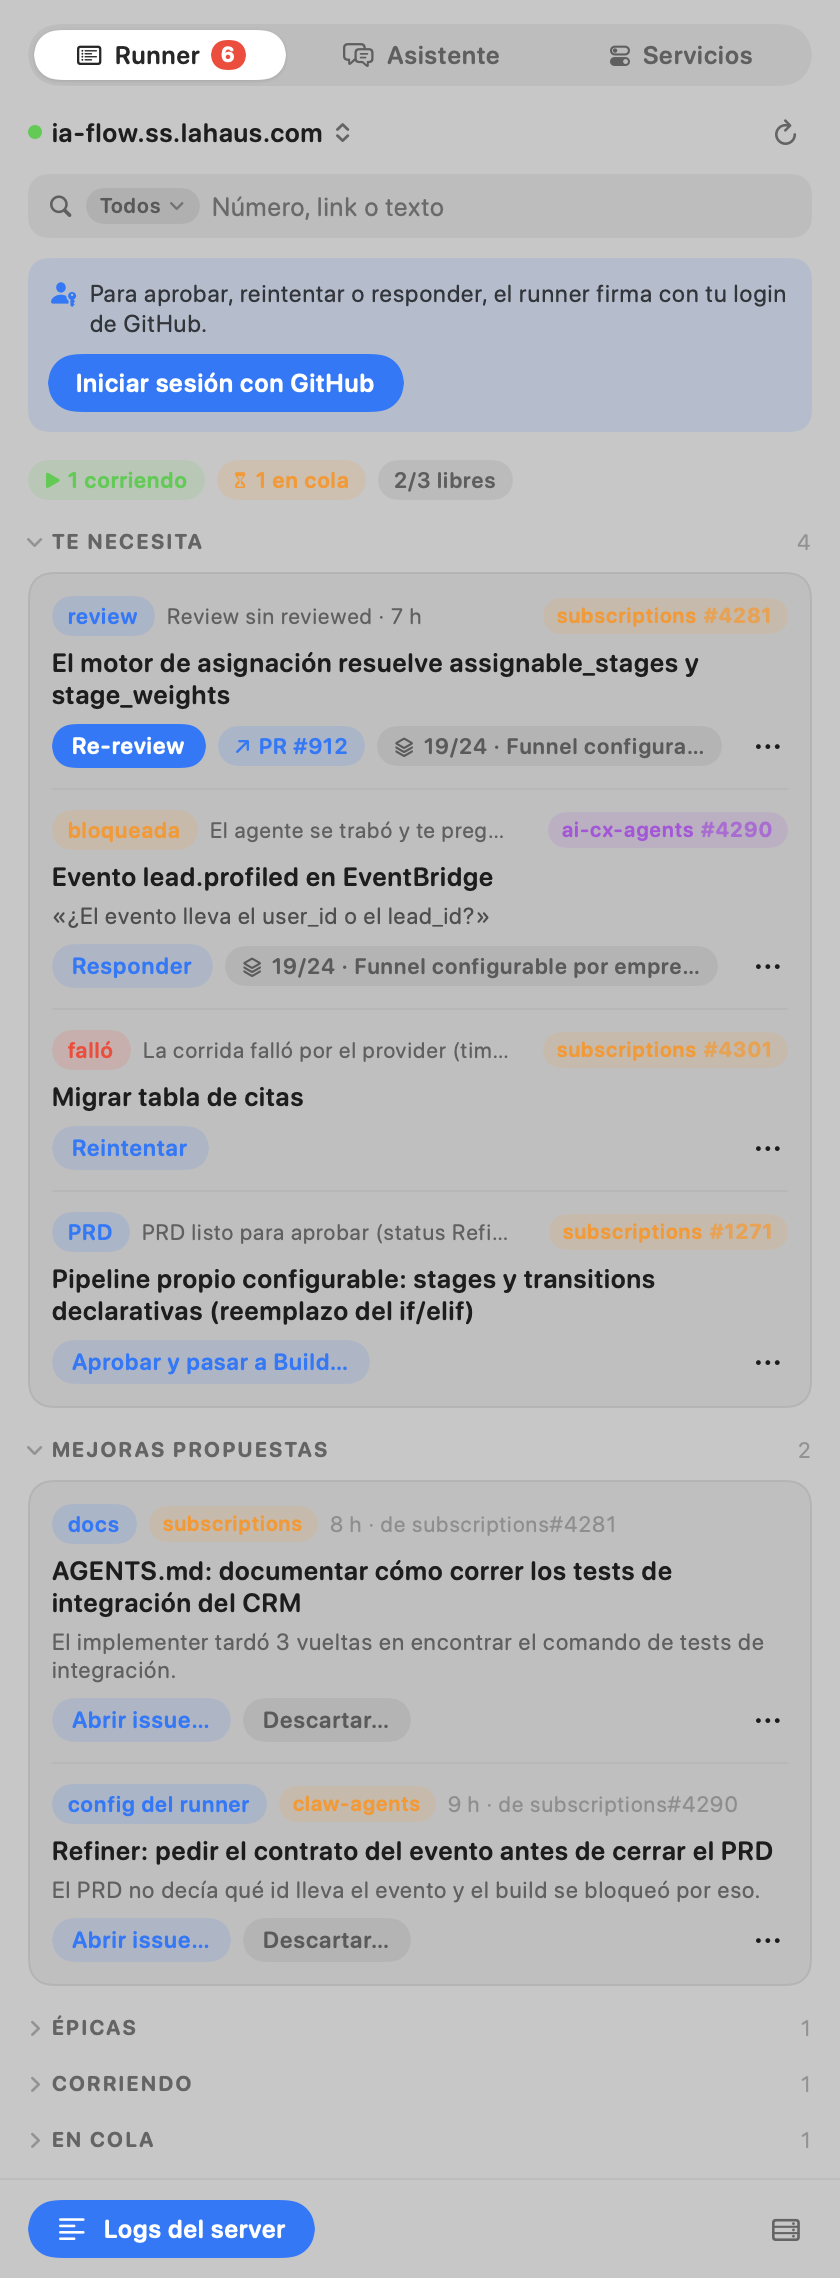
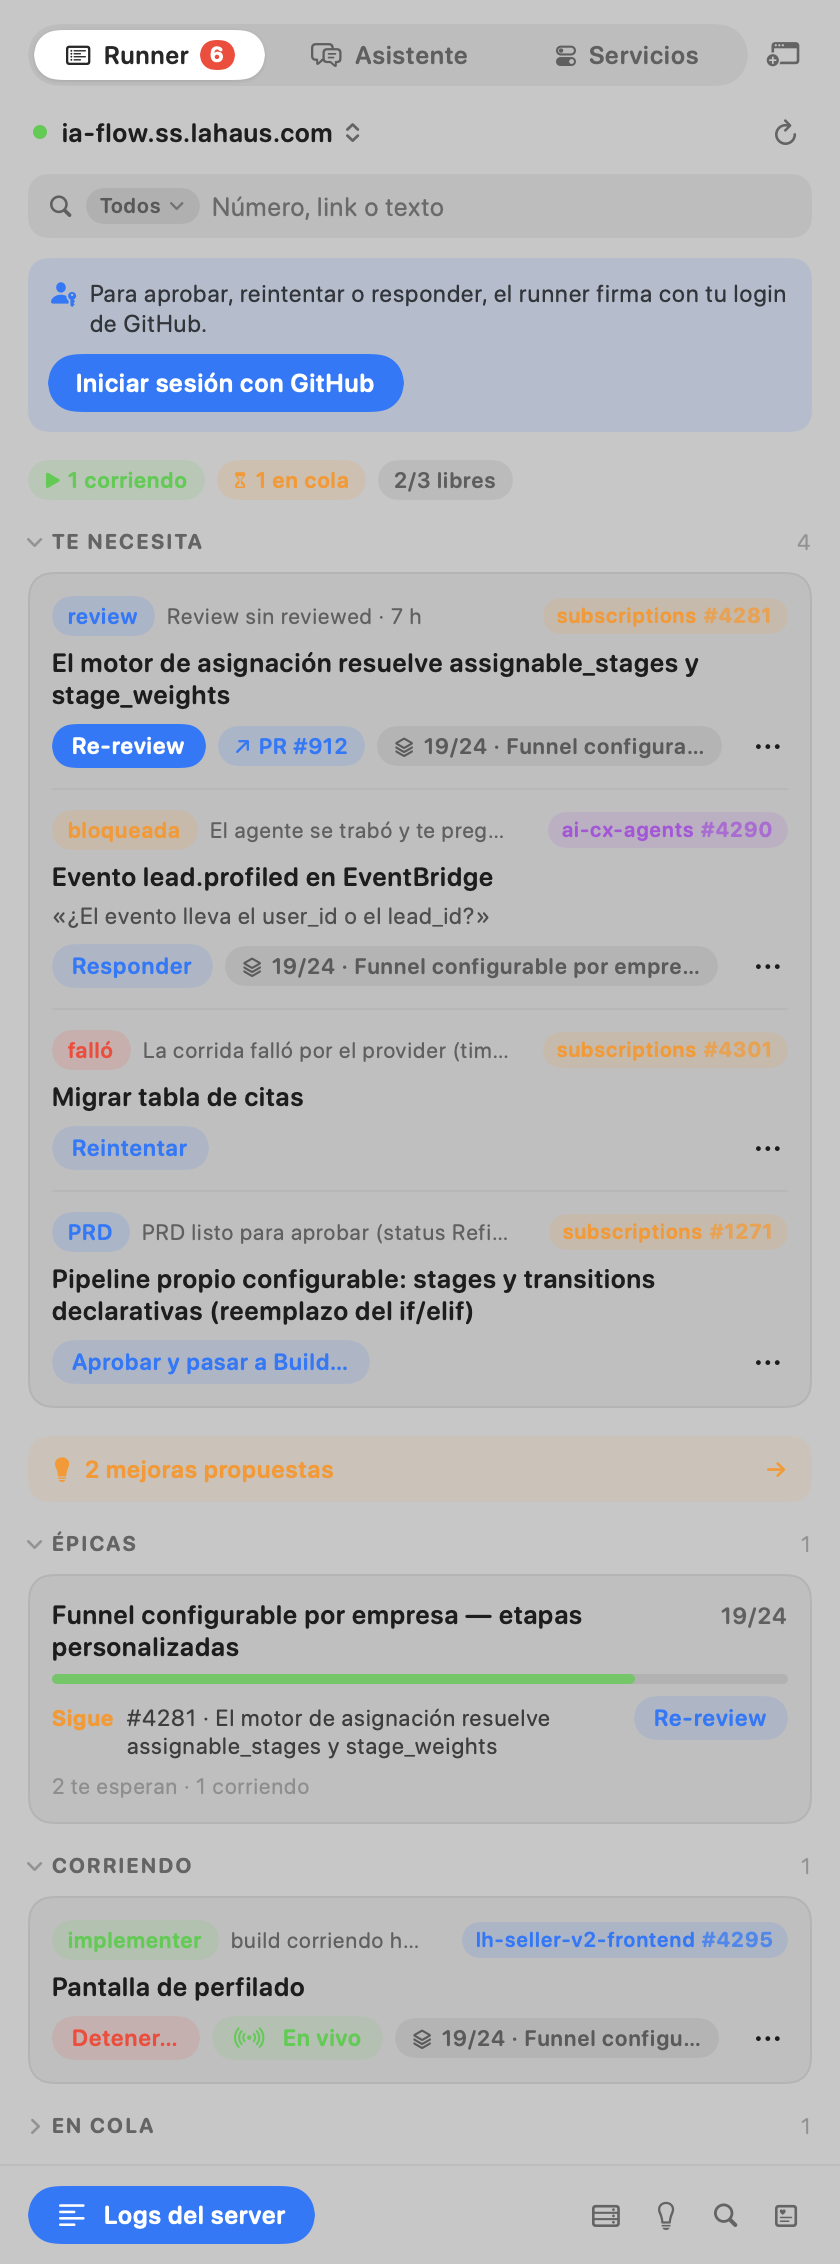
docs(menubar): la pantalla de mejoras propuestas y su «¿Por qué?»

diff --git a/apps/menubar/README.md b/apps/menubar/README.md
@@ -36,7 +36,7 @@ y de cada host, con sus lugares ocupados; «A tope» si no quedan lugares o memo
 **Pestaña «Runner»:** la bandeja de un runner (local o remoto) sobre la misma API que la web
 (`/api/inbox`, ya clasificada por el runner): lo que **te necesita** (merge, PRD, dudas, fallos) con su acción
 principal a un clic y las demás en ⋯, las **épicas** (avance de sus sub-issues y la próxima tarea que la mueve,
-con su acción), las **mejoras propuestas** por la retrospectiva (abrirlas como issue o descartarlas), lo que
+con su acción), cuántas **mejoras propuestas** esperan (llevan a su pantalla), lo que
 **corre** (con «Detener…») y la **cola**. Cada sección se colapsa con un clic en su título.
 **Buscador:** un tag al inicio elige el repo (o todos; filtra todo aunque no se escriba nada) y cada tarea lleva el tag de su repo, del mismo color. Acepta `1775`, `#1775`, `subscriptions#1775`, `la-haus/subscriptions#1775`, el link del issue o del
 PR, o texto del título (aproximado: sin tildes, palabras en cualquier orden, prefijos y typos); filtra todas las secciones (buscar una épica trae sus tareas) y busca también en el resto
@@ -50,6 +50,12 @@ texto busca en el título; con toda la organización, el texto busca por título
 número pide elegir repo (GitHub no busca por número en toda la org). `repo#n`, `owner/repo#n` y el link van directo.
 Va a api.github.com con tu login, sólo lee y cada resultado sólo se abre en el navegador: no pasa por el runner ni
 toca el board.
+
+**Mejoras propuestas** (el enlace naranja de la bandeja o la 💡 del pie): lo que dejó la retrospectiva al mergearse
+un PR, para abrirlo como issue o descartarlo. **«¿Por qué?»** abre un chat con el asistente sobre la tarea de la
+mejora: la mejora (agente, ejecución, razón, cuerpo) viaja delante de la primera pregunta sin mostrarse, y el
+asistente lee esa ejecución aunque la tarea ya no esté en el board (su issue se cerró con el merge). Arriba queda
+la mejora con su issue a un clic y sus acciones; la misma mejora retoma su chat, ✎ empieza otro.
 
 **Al día:** con el popover o la ventana abiertos, el menú escucha `GET /api/stream` (SSE, como la web) y relee la
 bandeja y las mejoras cuando algo cambia (varios cambios seguidos, una sola relectura); «En vivo» se relee con la traza
@@ -72,6 +78,8 @@ tareas y mejoras que te esperan en el runner elegido (se relee cada minuto con e
 
 ![buscar en GitHub](screenshot-search-gh-dark.png)
 
+![¿por qué?](screenshot-improvement-why-dark.png)
+
 **Pestaña «Asistente»:** el chat del asistente del runner (`POST /api/assistant`, streaming), sobre todo el runner
 o sobre una tarea («Preguntar sobre esta tarea…» en el ⋯ de cada fila). Lo que propone (una acción sobre una tarea,
 abrir un issue) se ejecuta con confirmación y tu login; las tareas que menciona abren la pestaña Runner filtrada.
@@ -89,7 +97,7 @@ sigue llegando aunque se cierre el popover.
 Estructura: `Core.swift` (config, cloudflared y API de Cloudflare), `Service.swift` (proceso, detached o adoptado),
 `Model.swift` (estado y acciones), `Components.swift` y `Views.swift` (SwiftUI), `Icon.swift` (glifo y badge),
 `RunnerAPI.swift` (cliente HTTP del runner y su contrato), `RunnerModel.swift` (estado de la pestaña Runner),
-`RunnerViews.swift` (sus pantallas), `RunnerSearch.swift` (qué se busca y qué coincide), `RunnerStream.swift` (el
+`RunnerViews.swift` (sus pantallas), `ImprovementsViews.swift` (las mejoras propuestas y su «¿Por qué?»), `RunnerSearch.swift` (qué se busca y qué coincide), `RunnerStream.swift` (el
 stream SSE), `GithubSearch.swift` (la API de GitHub), `GithubSearchModel.swift` y `GithubSearchViews.swift` (la
 pantalla «Buscar en GitHub»), `RunTrace.swift` (la traza de
 una ejecución plegada en pasos), `RunWatch.swift` y `RunTraceViews.swift` (la pantalla «En vivo»), `RunnerHealth.swift` y `RunnerHealthViews.swift`
